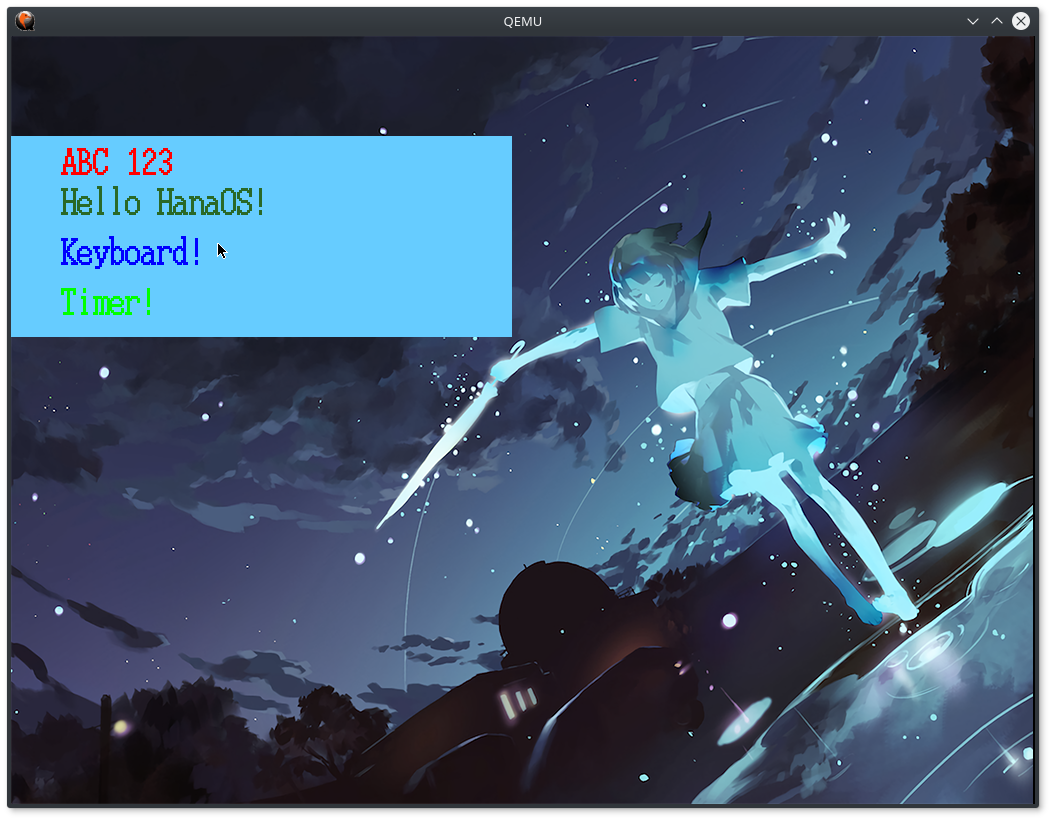
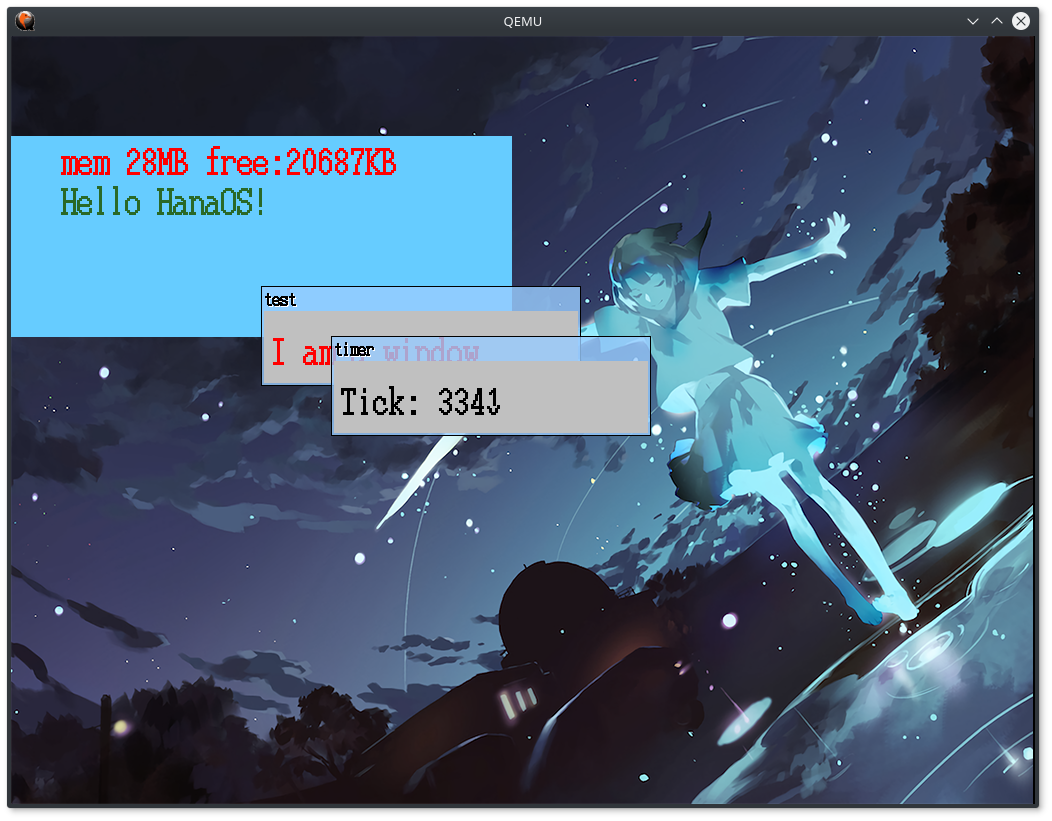
测试窗口透明叠加 & 更新截图

Changed region(s): [[0.2433, 0.335, 0.6388, 0.5481], [0.0608, 0.2741, 0.2129, 0.3959], [0.0608, 0.1827, 0.3954, 0.2132]]

diff --git a/kernel.cpp b/kernel.cpp
@@ -66,12 +66,18 @@ void kernel_main(multiboot_info_t *hdr,uint32_t magic)
 	sprintf(str,"mem %dMB free:%dKB",memtotal/0x400000*4,memman->total()/1024);
 	sht_back->putstring(50,110,2,0xff0000,0x66ccff,str);
 	sht_back->putstring(50,150,2,0x2a6927,0x66ccff,"Hello HanaOS!");
+	
+	auto test_win=shtctl->allocsheet(320,100);
+	test_win->graphics->init_window("test");
+	test_win->slide(250,250);
+	test_win->updown(1);
+	test_win->putstring(10,50,2,0xff0000,test_win->graphics->bgcolor,"I am a window");
 
 	//Init window
 	sht_win=shtctl->allocsheet(320,100);
 	sht_win->graphics->init_window("timer");
 	sht_win->slide(320,300);
-	sht_win->updown(1);
+	sht_win->updown(2);
 
 	gdt_init();
 	idt_init();
